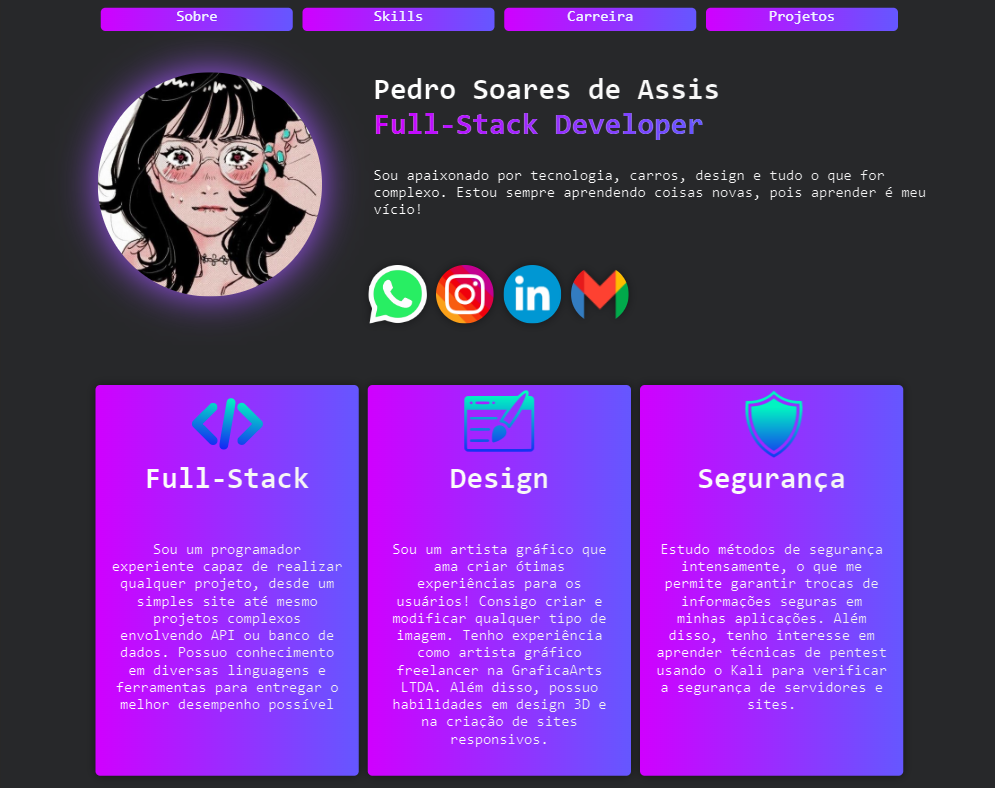
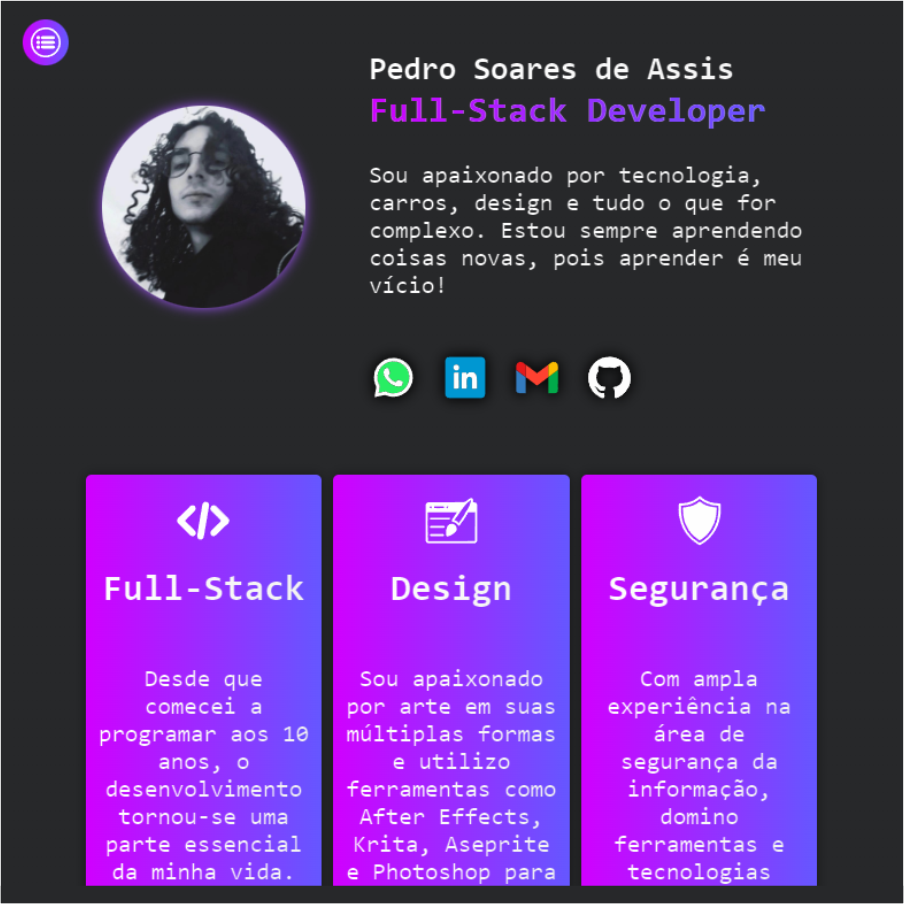
feat: new project

diff --git a/scripts/projects.js b/scripts/projects.js
@@ -1,0 +1,68 @@
+let pathArray = 0
+
+console.log('ajshdkajsghd');
+
+
+const projects = [
+    {
+        title: 'Portifolio',
+        first_Htwo: 'Sobre o projeto',
+        first_p: 'O desenvolvimento deste portfólio foi extremamente satisfatório de trabalhar. Ver minhas ideias saírem de uma folha A4 para algo verdadeiramente bonito de se ver é uma sensação muito boa!',
+
+        second_Htwo: 'Tecnologias usadas',
+        second_p:'No portfólio, utilizei apenas o front-end. Eu até queria implementar alguma API, porém o GitHub Pages não suportaria algo grande. Mas tenho certeza de que posso fazer isso para a sua empresa ou projeto !!',
+        img: "https://so78073.github.io/portfolio/assets/exemples/page001.png",
+        link: 'https://github.com/So78073',
+    
+    },
+    {
+        title: 'PDF analyse GraficaOffset',
+        first_Htwo: 'Sobre o projeto',
+        first_p: 'Transforme a maneira como você gerencia suas imagens com o RenderImage. Redimensione centenas ou milhares de imagens em massa para as dimensões desejadas, sem perder qualidade. Principais Recursos: Redimensionamento em Massa: Selecione uma pasta e redimensione todas as imagens em .png ou .jpeg de uma só vez. Qualidade Preservada: Tecnologia avançada que mantém a qualidade original. Fácil de Usar: Interface intuitiva, ideal para fotógrafos e designers. Personalização Total: Escolha as dimensões exatas que você precisa. Experimente o RenderImage hoje e otimize suas imagens com rapidez e eficiência. Baixe agora e comece a transformar suas imagens!',
+
+        second_Htwo: 'Tecnologias usadas',
+        second_p:'Neste projeto, utilizei Python para o back-end e a biblioteca PyQt5 no front-end. Para o funcionamento do software, implementei manipuladores de PDF e imagens (usando as bibliotecas fitz e PIL).',
+        img: "https://so78073.github.io/portfolio/assets/exemples/page002.png",
+        link: 'https://so78073.github.io/ShizuDevWorks/'
+    },
+    {
+        title: 'ShizuRender iMG',
+        first_Htwo: 'Sobre o projeto',
+        first_p: 'Nosso software permite que você selecione arquivos e redimensione imagens PNG e JPEG para as dimensões desejadas, sem perder qualidade. Com uma interface intuitiva, você ajusta rapidamente o tamanho das imagens para suas necessidades específicas. Principais recursos: seleção de arquivos, suporte a PNG e JPEG, redimensionamento personalizado, preservação da qualidade e interface fácil de usar. Transforme suas imagens com eficiência e mantenha a melhor qualidade possível!',
+
+        second_Htwo: 'Tecnologias usadas',
+        second_p:'Neste projeto, utilizei Python para o back-end e a biblioteca PyQt5 no front-end. Para o funcionamento do software, implementei manipuladores de imagens e os/sys.',
+        img: "https://so78073.github.io/portfolio/assets/exemples/page003.png",
+        link: 'https://so78073.github.io/RenderImgWebSite/'
+    }
+]
+
+document.addEventListener('click', function (e) {
+    console.clear()
+    if (e.target.classList.contains('btProjects')) {
+
+        pathArray = e.target.getAttribute('mode') === "L" ? pathArray + 1  : pathArray - 1;
+        pathArray = pathArray > (projects.length - 1) ? 0 : pathArray
+
+
+        setTimeout(function() {
+            RenderProjectSequence(projects[pathArray])
+        }, 300)
+        
+         console.log(projects.length);
+    }
+})
+
+function RenderProjectSequence(objProject) {
+    title_Project = document.getElementById('title_project').innerText = objProject.title
+    first_h2 = document.getElementById('first_h2').innerText = objProject.first_Htwo
+    first_p = document.getElementById('first_p').innerText = objProject.first_p
+
+    second_h2 = document.getElementById('second_h2').innerText = objProject.second_Htwo
+    second_p = document.getElementById('second_p').innerText = objProject.second_p
+    img = document.getElementById('proj_exemple').src = objProject.img
+    console.log(document.getElementById('linkHook').href = objProject.link);
+    link = document.getElementById('linkHook').href = objProject.link
+
+}
+

diff --git a/scripts/scripts.js b/scripts/scripts.js
@@ -1,0 +1,104 @@
+/*document.addEventListener('contextmenu', function(e) {
+    e.preventDefault();
+});
+document.querySelectorAll('img').forEach(function(img) {
+    img.addEventListener('mousedown', function(e) {
+        if (e.button === 2) {
+            e.preventDefault();
+        }
+    });
+});*/
+
+document.addEventListener('DOMContentLoaded', function() {
+    document.getElementById('aboltmeRef').classList.add("show")
+    document.getElementById('mySkills').classList.add("show")
+});
+
+const elem = document.querySelectorAll('.hidden');
+
+const myObserver = new IntersectionObserver(function(entradas) {
+    entradas.forEach(function(e) {
+        const idMenuControl = e.target.id;
+        if (e.isIntersecting) {
+            e.target.classList.add('show')
+        }
+    })
+});
+
+
+elem.forEach(function(e) {
+    myObserver.observe(e);
+})
+
+
+
+let color = ['#e600ff', '#6557ff']
+
+document.addEventListener('click', function(e) {
+    const sideProjectTxT = document.querySelectorAll('.sideProjectText');
+    const sideProject = document.querySelectorAll('.sideProject');
+
+    const root = document.documentElement;
+
+    if (e.target.classList.contains('btProjects')) {
+        const project = document.getElementById('Project');
+
+        color.reverse()
+        const novoGradiente = `linear-gradient(to left, ${color[0]}, ${color[1]})`;
+        root.style.setProperty('--gradiente2Pronject', novoGradiente);
+
+        console.log(sideProjectTxT);
+
+        if (e.target.getAttribute('mode') === "L") {
+
+            sideProjectTxT.forEach(function(elem) {
+                elem.classList.add('animations')
+            })
+            sideProject.forEach(function(elem) {
+                elem.classList.add('animations')
+            })
+
+            project.classList.add('flipRanimationL');
+
+        } else {
+            sideProjectTxT.forEach(function(elem) {
+                elem.classList.add('animations')
+            })
+            sideProject.forEach(function(elem) {
+                elem.classList.add('animations')
+            })
+
+            project.classList.add('flipRanimationR');
+        }
+
+
+        project.addEventListener('animationend', function() {
+
+            this.classList.remove('flipRanimationR');
+            this.classList.remove('flipRanimationL');
+
+            sideProject.forEach(function(elem) {
+                elem.classList.remove('animations')
+            })
+            sideProjectTxT.forEach(function(elem) {
+                elem.classList.remove('animations')
+            })
+        }, { once: true });
+    }
+});
+
+document.querySelector('.menuBt').addEventListener('click', function() {
+    const menu = document.querySelector('.UlMenuConfigurator')
+    menu.style.display = (menu.style.display === 'none') ? 'block' : 'none';
+})
+
+
+
+
+
+
+document.addEventListener('click', function(e) {
+    if (e.target.classList.contains('BackBt') || e.target.classList.contains('btOcamento')) {
+        window.location.href = '#aboltmeRef';
+    }
+})

diff --git a/styles/styles.css b/styles/styles.css
@@ -417,6 +417,7 @@ p {
     display: flex;
     justify-content: center;
     align-content: center;
+    padding: 30px;
 }
 
 .sideProject {
@@ -432,8 +433,8 @@ p {
 
 .sideProject h1 {
     width: 90%;
-    font-size: 3pc;
-    margin: 10px 0px 0px 0px;
+    font-size: 6vw;
+    margin: 10px 0px 50px 0px;
 }
 
 .sideProject h2 {
@@ -466,7 +467,15 @@ p {
     align-items: center;
     justify-items: center;
     margin: 20px 0px 0px 0px;
+    display: flex;
+    justify-content: center;
+    align-content: center;
+
+    
 }
+
+
+
 
 .ImgProject {
     width: 100%;
@@ -477,6 +486,7 @@ p {
     flex-direction: column;
     align-content: center;
     justify-content: center;
+    
 }
 
 .imgProj {
@@ -488,21 +498,33 @@ p {
     width: 100%;
     border-radius: var(--border-radius);
     display: none;
+    justify-self: center;
+    align-self: center;
 }
 
 .btShowProject {
+    display: flex;
+    justify-content: center;
+    align-items: center;
+    text-align: center;
     width: 100%;
     height: 50px;
     border: none;
     background-image: var(--gradiente);
     border-radius: var(--border-radius);
-    margin: 0px 0px 3rem 0px;
-    border: 3px solid rgba(0, 0, 0, 0.307);
+    margin: 0 0 3rem 0;
+    border: 2px solid rgb(0, 0, 0);
+    text-decoration: none;
+    color: white; /* Ajuste a cor do texto conforme necessário */
+    font-size: 1rem;
+    font-weight: bold;
 }
 
 .btShowProject:hover {
-    scale: var(--hoverVar);
+    cursor: pointer;
+    scale: 1.01;
 }
+
 
 .btShowProject p {
     font-size: 1.5em;

diff --git a/index.html b/index.html
@@ -153,13 +153,13 @@
                         <p class="classTextRevers" id="second_p">No portfólio, utilizei apenas o front-end. Eu até queria implementar alguma API, porém o GitHub Pages não suportaria algo grande. Mas tenho certeza de que posso fazer isso para a sua empresa ou projeto !! </p>
 
                     </div>
-                    <div class="sideProjectText scaleEffects">
-                        <div class="imageProjectConfigurations">
-                            <img src="https://so78073.github.io/portfolio/assets/exemples/page001.png" class="imgProj" id="proj_exemple">
+                    
+                    <div class="imageProjectConfigurations">
+                        <img src="assets/exemples/page001.png" class="imgProj" id="proj_exemple">
+                        <a class="btShowProject" href="https://www.exemplo.com" target="_blank" id="linkHook">READ MORE</a>
 
-                            <button class="btShowProject"><p class="pProjectButtonInden">Ver Mais</p></button>
-                        </div>
                     </div>
+            
                 </div>
             </div>
         </div>
@@ -219,8 +219,8 @@
 
 
 
-    <script src="https://so78073.github.io/portfolio/projects.js"></script>
-    <script src="https://so78073.github.io/portfolio/scripts.js"></script>
+    <script src="https://so78073.github.io/portfolio/scripts/scripts.js"></script>
+    <script src="https://so78073.github.io/portfolio/scripts/projects.js"></script>
 
 
 </body>
